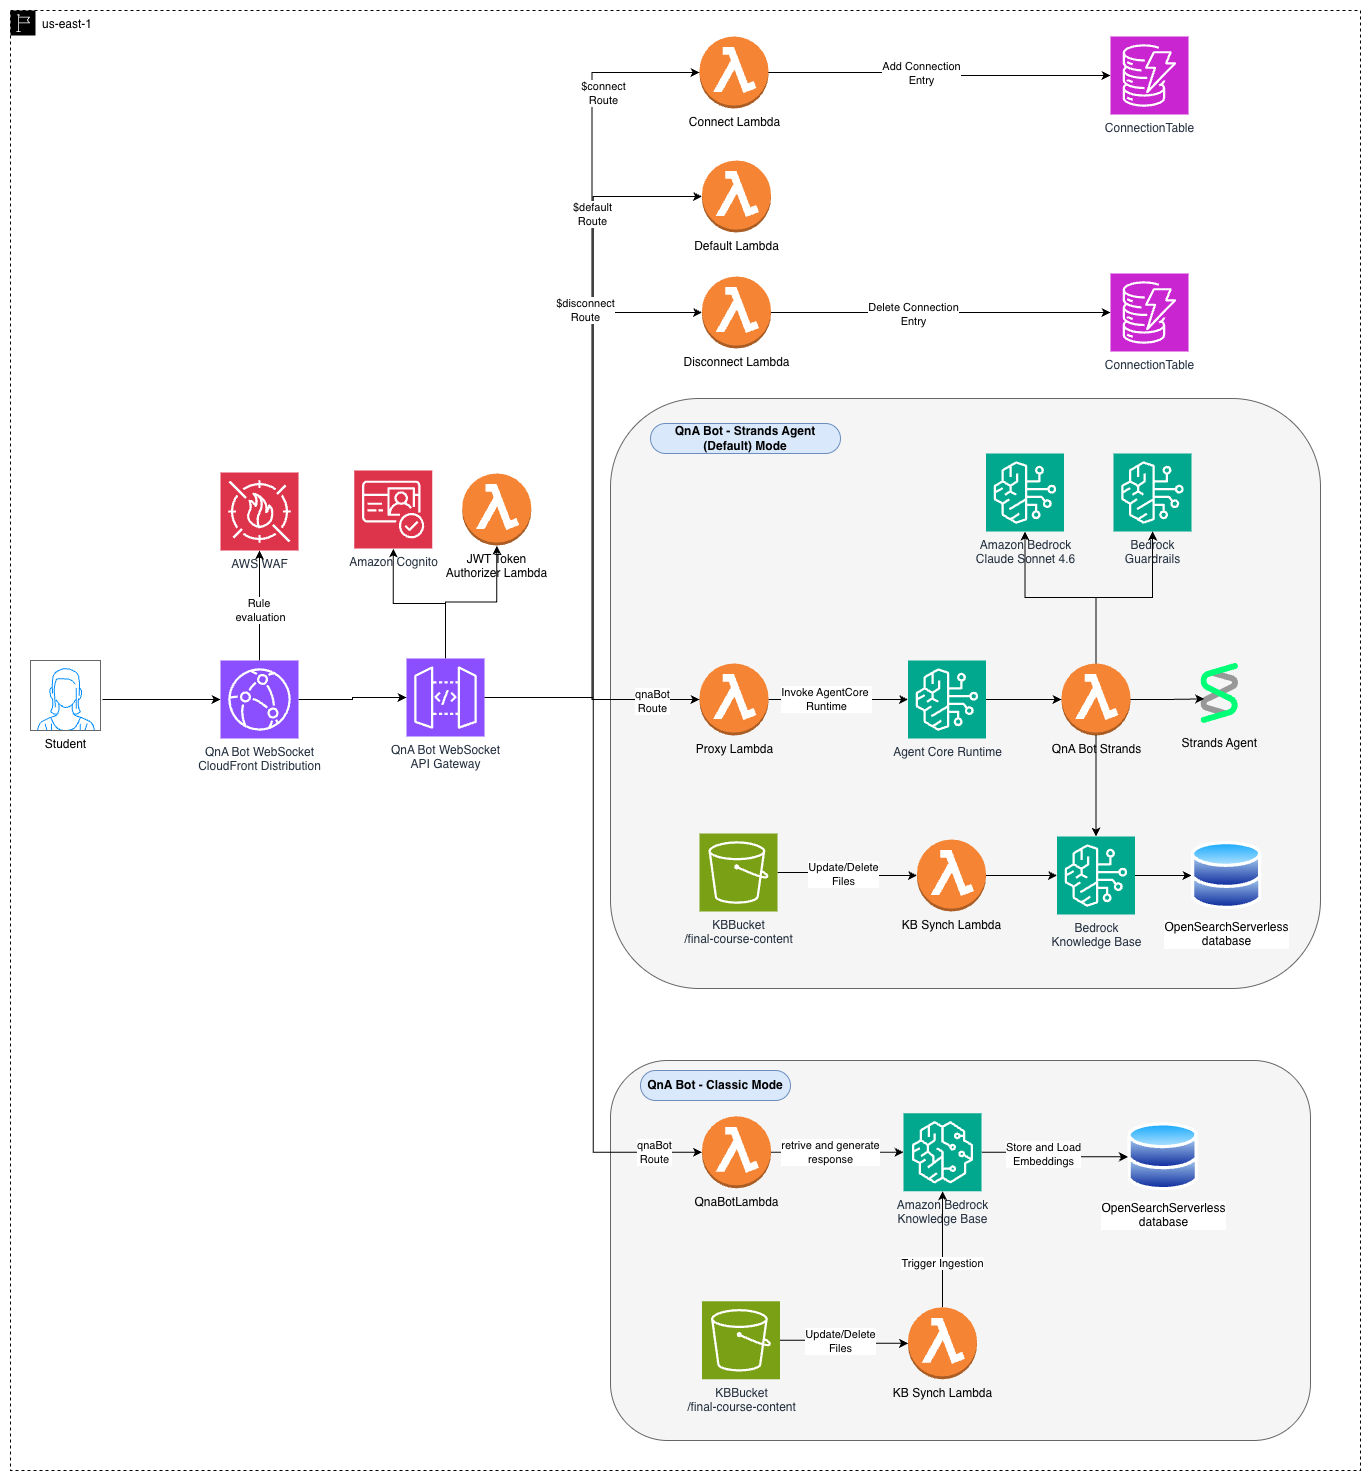
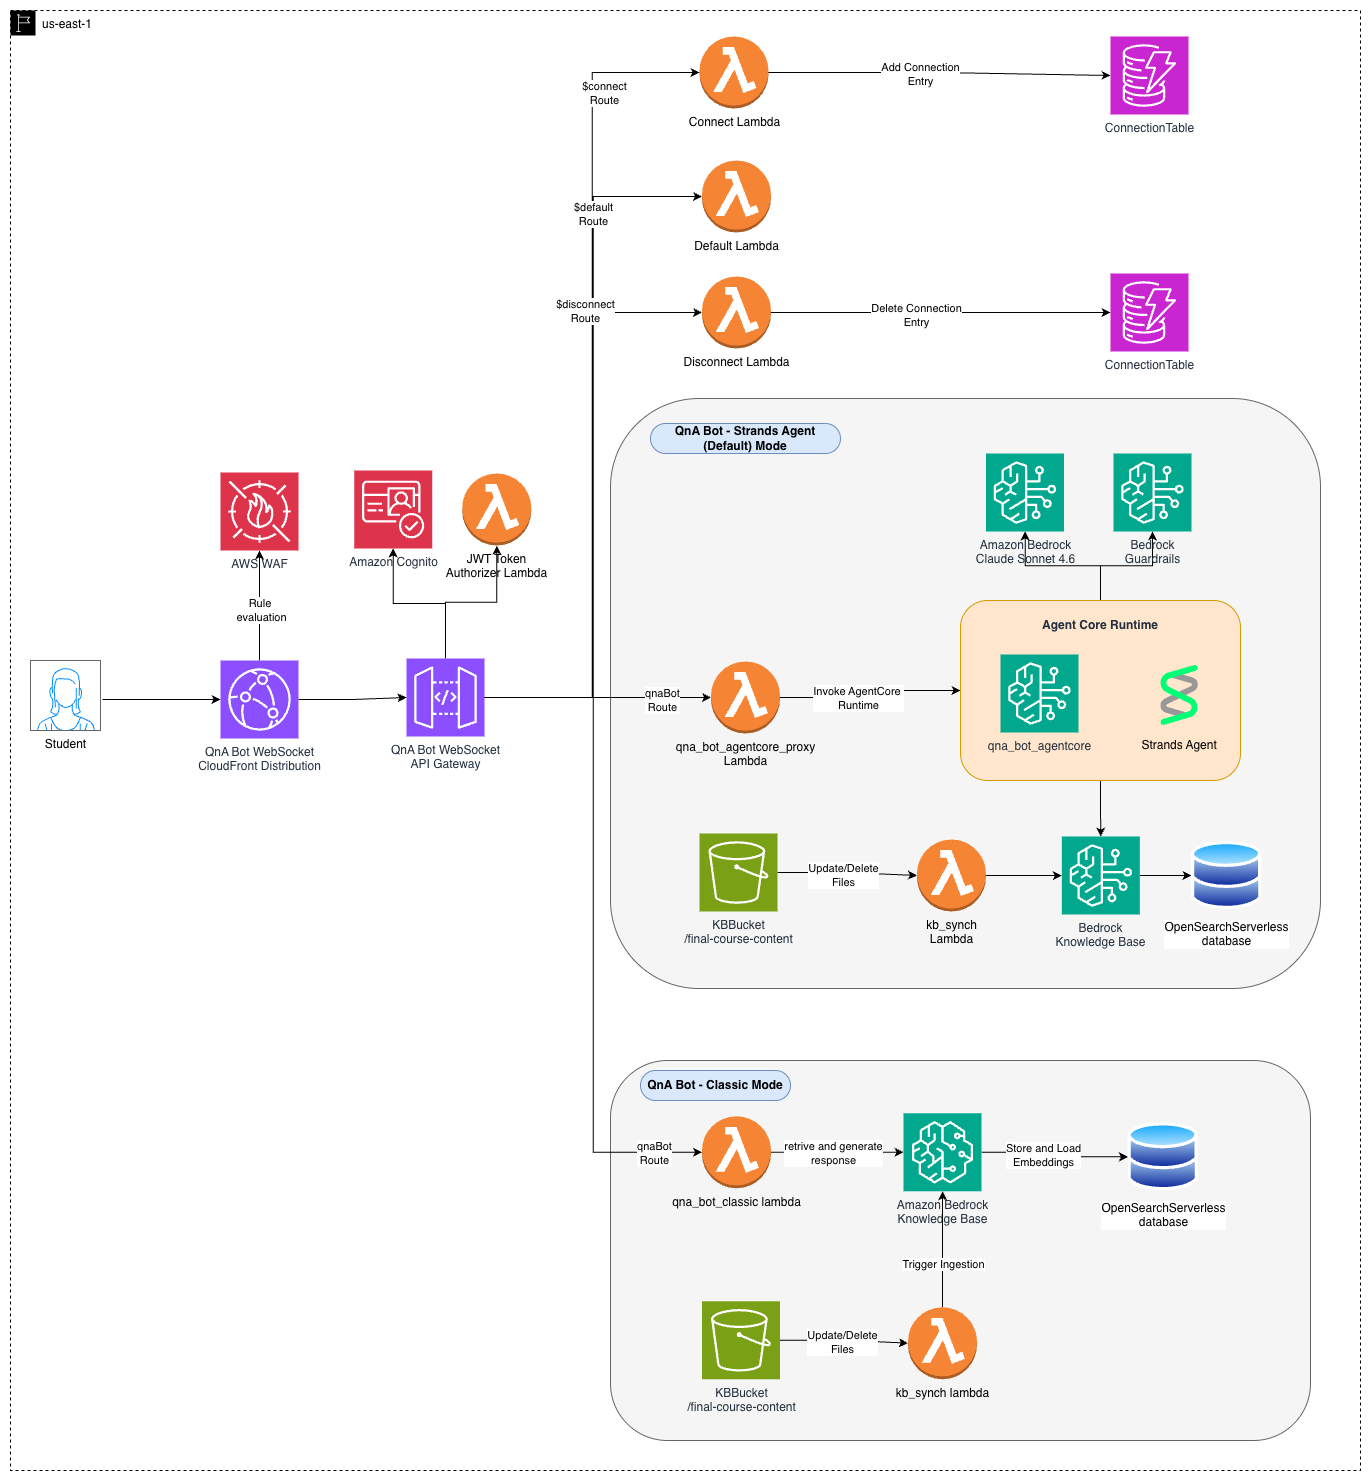
refactor: rename QnA bot Lambda directories and update diagram labels
- Rename lambda/qna_bot → lambda/qna_bot_classic
- Rename lambda/qna_bot_strands → lambda/qna_bot_agentcore
- Update CDK asset paths in qna_stack.py
- Fix architecture diagrams: Claude sonnet 3.5 → Claude Sonnet 4.6
- Update diagram label: QnA Bot Strands → QnA Bot AgentCore

diff --git a/educational_course_content_generator_with_qna_bot_using_bedrock/qna_stack.py b/educational_course_content_generator_with_qna_bot_using_bedrock/qna_stack.py
@@ -172,7 +172,7 @@ class QnAStack(Stack):
             # AgentCore Runtime has a 30s init timeout, so deps must be pre-bundled
             from aws_cdk import aws_s3_assets as s3_assets, BundlingOptions, DockerImage
             agentcore_code_asset = s3_assets.Asset(self, "AgentCoreCodeAsset",
-                path="./lambda/qna_bot_strands",
+                path="./lambda/qna_bot_agentcore",
                 bundling=BundlingOptions(
                     image=DockerImage.from_registry("public.ecr.aws/sam/build-python3.12:latest"),
                     command=[
@@ -243,7 +243,7 @@ class QnAStack(Stack):
             # Classic mode: uses direct Bedrock RetrieveAndGenerate API on Lambda
             qna_bot_lambda = _lambda.Function(self,
                             "qna_bot_lambda",
-                            code=_lambda.Code.from_asset("./lambda/qna_bot"),
+                            code=_lambda.Code.from_asset("./lambda/qna_bot_classic"),
                             runtime=_lambda.Runtime.PYTHON_3_12,
                             architecture=_lambda.Architecture.ARM_64,
                             memory_size=512,
